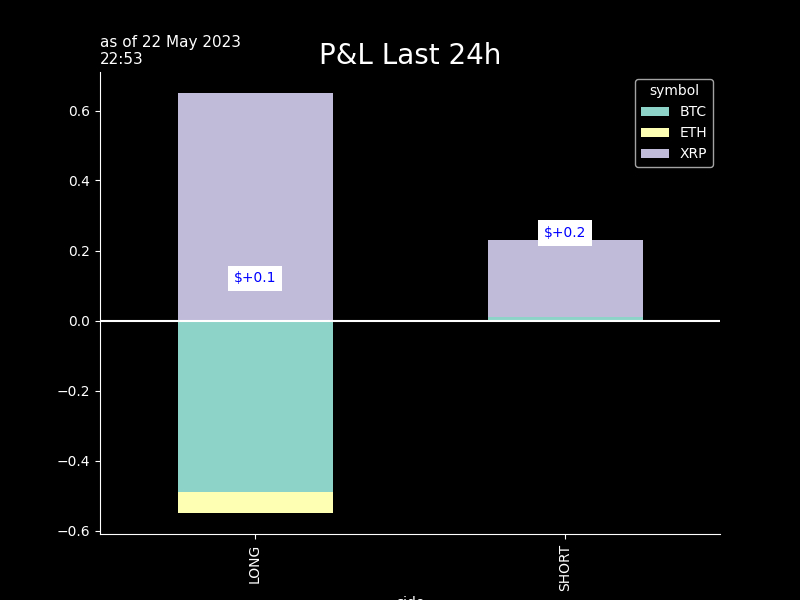
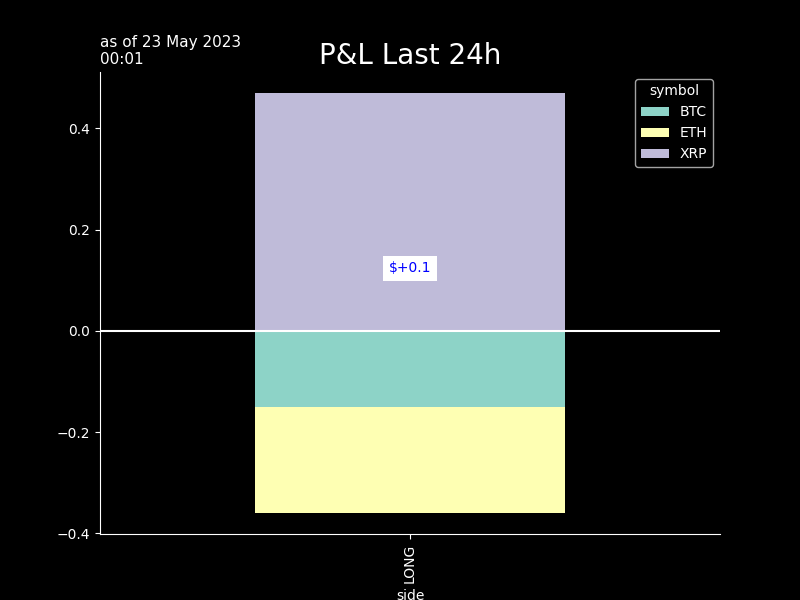
seb_commit

diff --git a/crypto/graphs/bt_trades_book.htmltrade_trades_book.html b/crypto/graphs/bt_trades_book.htmltrade_trades_book.html
@@ -37,55 +37,55 @@
   </thead>
   <tbody>
     <tr>
-      <th>ETHUSDT</th>
-      <td>1821.2100</td>
-      <td>2023-05-22 18:34:20</td>
-      <td>0.085</td>
-      <td>$154.8</td>
+      <th>BTCUSDT</th>
+      <td>26864.3000</td>
+      <td>2023-05-22 22:33:24</td>
+      <td>-0.006</td>
+      <td>$-161.2</td>
       <td>$0.03</td>
       <td>2.0</td>
+      <td>-0.1</td>
+      <td>26870.25000</td>
+      <td>2023-05-22 23:31</td>
+      <td>-0.0</td>
+      <td>-2.0</td>
+      <td>26862.7</td>
       <td>0.0</td>
-      <td>1820.82500</td>
-      <td>2023-05-22 19:31</td>
-      <td>-0.0</td>
-      <td>-2.0</td>
-      <td>1820.88</td>
-      <td>-0.0</td>
-      <td>-2.0</td>
+      <td>1.0</td>
     </tr>
     <tr>
       <th>XRPUSDT</th>
-      <td>0.4587</td>
-      <td>2023-05-22 18:34:39</td>
-      <td>338.600</td>
-      <td>$155.3</td>
+      <td>0.4601</td>
+      <td>2023-05-22 22:34:43</td>
+      <td>-338.600</td>
+      <td>$-155.8</td>
       <td>$0.03</td>
       <td>2.0</td>
+      <td>0.5</td>
+      <td>0.46065</td>
+      <td>2023-05-22 23:31</td>
+      <td>-0.2</td>
+      <td>-12.0</td>
+      <td>.46</td>
       <td>0.0</td>
-      <td>0.45845</td>
-      <td>2023-05-22 19:31</td>
-      <td>-0.1</td>
-      <td>-5.0</td>
-      <td>.4587</td>
-      <td>-0.0</td>
-      <td>-0.0</td>
+      <td>2.0</td>
     </tr>
     <tr>
-      <th>BTCUSDT</th>
-      <td>26889.2000</td>
-      <td>2023-05-22 18:33:16</td>
-      <td>0.006</td>
-      <td>$161.3</td>
+      <th>ETHUSDT</th>
+      <td>1818.7900</td>
+      <td>2023-05-22 22:33:36</td>
+      <td>-0.085</td>
+      <td>$-154.6</td>
       <td>$0.03</td>
       <td>2.0</td>
-      <td>0.0</td>
-      <td>26890.15000</td>
-      <td>2023-05-22 19:31</td>
-      <td>0.0</td>
-      <td>1.0</td>
-      <td>26890.</td>
-      <td>0.0</td>
-      <td>0.0</td>
+      <td>-0.2</td>
+      <td>1819.40500</td>
+      <td>2023-05-22 23:31</td>
+      <td>-0.1</td>
+      <td>-3.0</td>
+      <td>1818.19</td>
+      <td>0.1</td>
+      <td>3.0</td>
     </tr>
   </tbody>
 </table>

diff --git a/crypto/graphs/bt_trades_pnlD_recap.htmltrade_trades_pnlD_recap.html b/crypto/graphs/bt_trades_pnlD_recap.htmltrade_trades_pnlD_recap.html
@@ -1,7 +1,7 @@
 <table border="1" class="dataframe">
   <thead>
     <tr style="text-align: right;">
-      <th>22 May 19:34</th>
+      <th>22 May 23:34</th>
       <th>realizedPnl</th>
       <th>PnLvsArrival</th>
       <th>PnLvsLast</th>
@@ -10,21 +10,21 @@
   <tbody>
     <tr>
       <th>in$</th>
-      <td>0.0</td>
-      <td>-0.1</td>
-      <td>-0.0</td>
+      <td>0.1</td>
+      <td>-0.3</td>
+      <td>0.1</td>
     </tr>
     <tr>
       <th>in bp 471 traded</th>
-      <td>0 bp</td>
-      <td>-2 bp</td>
-      <td>-1 bp</td>
+      <td>2 bp</td>
+      <td>-6 bp</td>
+      <td>2 bp</td>
     </tr>
     <tr>
       <th>in bp 310 AUMs</th>
-      <td>0 bp</td>
-      <td>-3 bp</td>
-      <td>-1 bp</td>
+      <td>4 bp</td>
+      <td>-9 bp</td>
+      <td>3 bp</td>
     </tr>
   </tbody>
 </table>

diff --git a/crypto/graphs/bt_trades_recap.htmltrade_trades_recap.html b/crypto/graphs/bt_trades_recap.htmltrade_trades_recap.html
@@ -9,28 +9,28 @@
   <tbody>
     <tr>
       <th>as of</th>
-      <td>22May 18:33&gt;&gt;18:34</td>
+      <td>22May 22:33&gt;&gt;22:34</td>
       <td>#trades: 3</td>
     </tr>
     <tr>
       <th>trade net</th>
-      <td>+471.0</td>
-      <td>+151.7%</td>
+      <td>-472.0</td>
+      <td>-151.9%</td>
     </tr>
     <tr>
       <th>trade gross</th>
-      <td>+471.0</td>
-      <td>+151.7%</td>
+      <td>+472.0</td>
+      <td>+151.9%</td>
     </tr>
     <tr>
       <th>BUY</th>
-      <td>+471.0</td>
-      <td>+151.7%</td>
+      <td>+0.0</td>
+      <td>+0.0%</td>
     </tr>
     <tr>
       <th>SELL</th>
-      <td>+0.0</td>
-      <td>+0.0%</td>
+      <td>-472.0</td>
+      <td>-151.9%</td>
     </tr>
     <tr>
       <th>fees</th>
